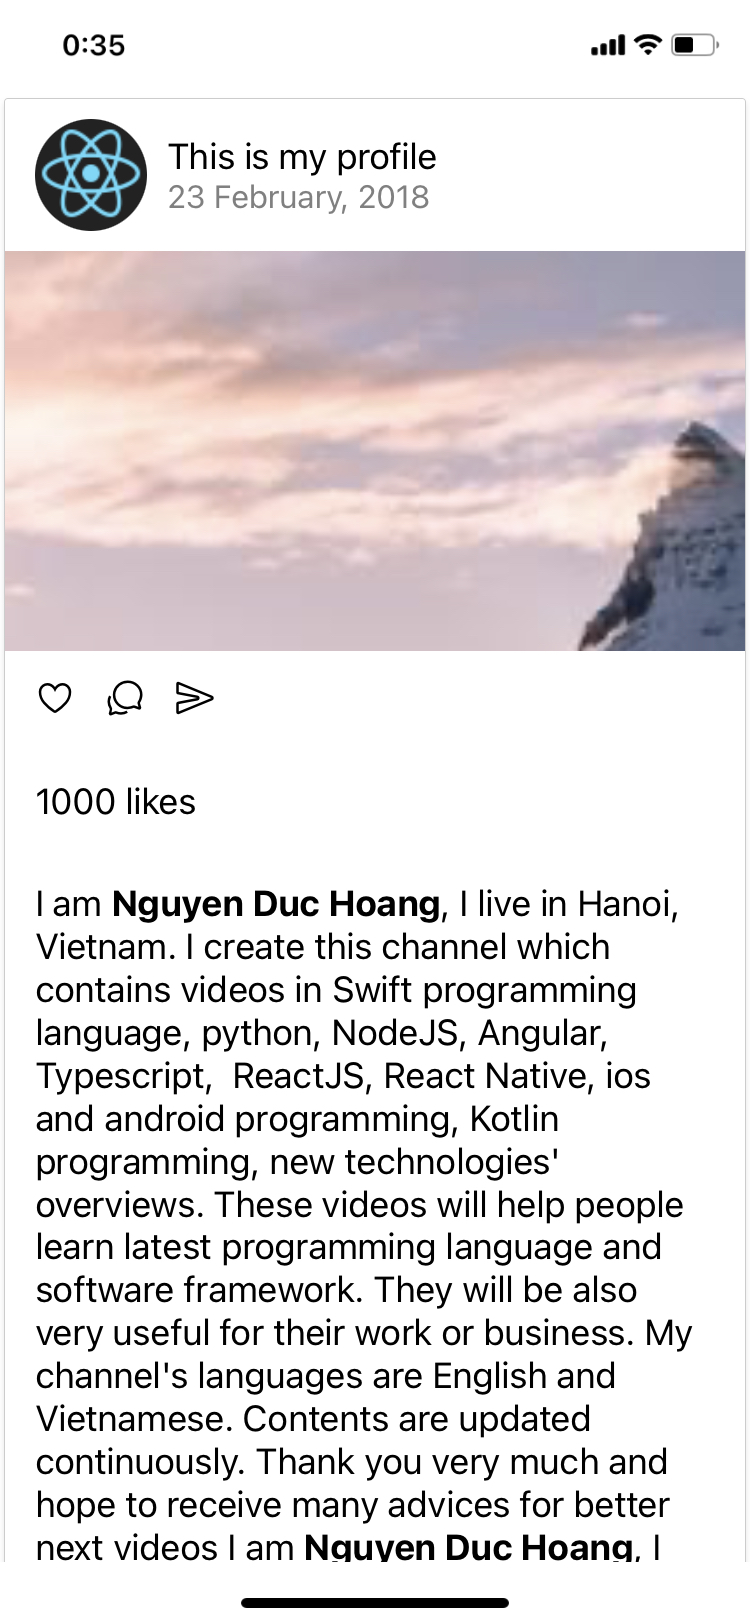
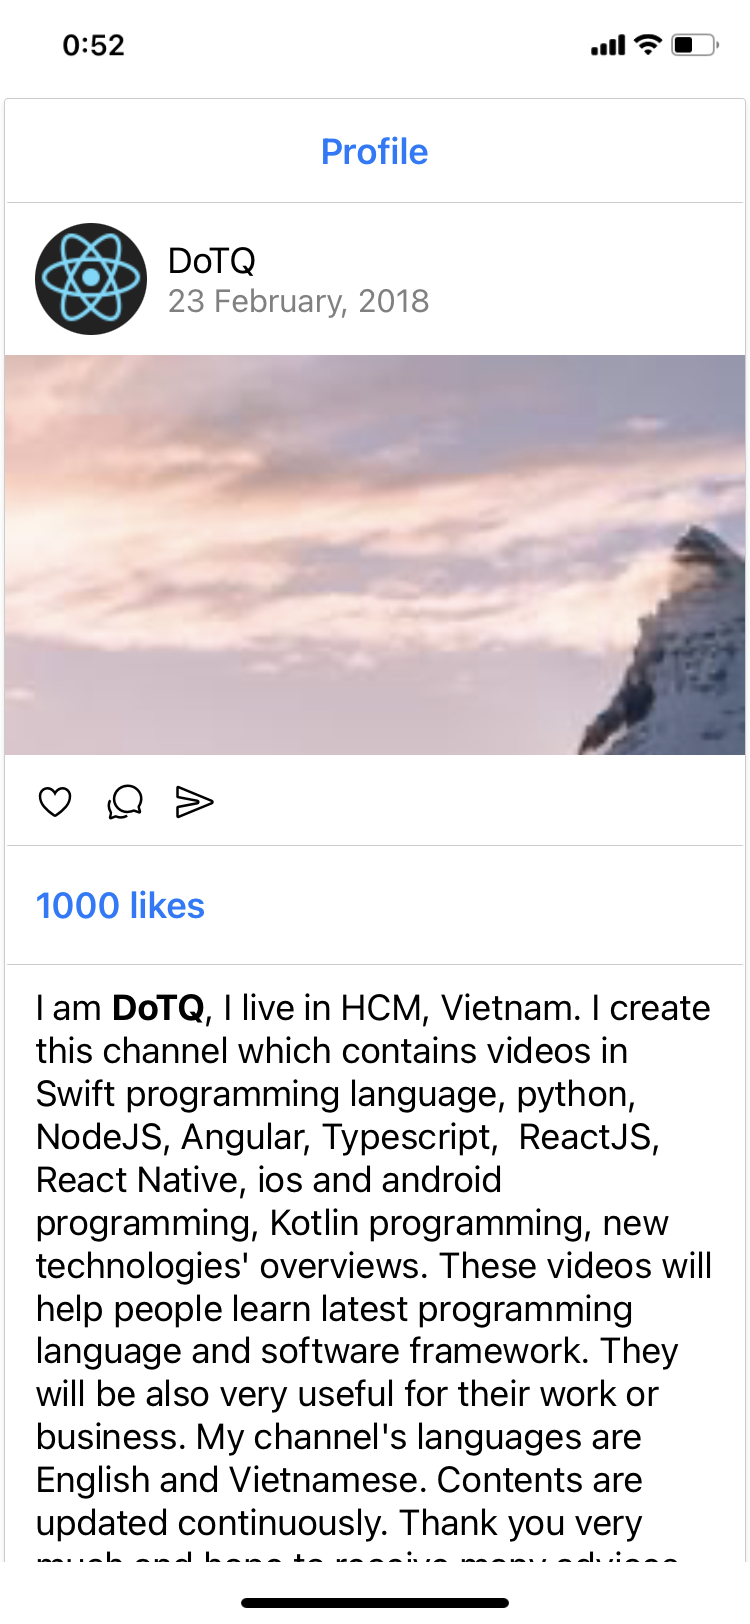
edit screenshot

diff --git a/NativeBaseDemo2.js b/NativeBaseDemo2.js
@@ -1,19 +1,22 @@
 import { Body, Button, Card, CardItem, Icon, Left, Text, Thumbnail } from 'native-base';
 import React, { Component } from 'react';
 import { Image, SafeAreaView, ScrollView, StatusBar } from 'react-native';
-export default class NativeBaseDemo2 extends Component {
+export default class CardComponent extends Component {
   render() {
     return <SafeAreaView>
       <StatusBar barStyle='dark-content' />
       <ScrollView>
         <Card>
+          <CardItem style={{ justifyContent: 'center', }} header bordered>
+            <Text>Profile</Text>
+          </CardItem>
           <CardItem>
             <Left>
               <Thumbnail source={{
                 uri: 'https://reactnative.dev/img/tiny_logo.png',
               }} />
               <Body>
-                <Text>This is my profile</Text>
+                <Text>DoTQ</Text>
                 <Text note>23 February, 2018</Text>
               </Body>
             </Left>
@@ -42,21 +45,21 @@ export default class NativeBaseDemo2 extends Component {
               </Button>
             </Left>
           </CardItem>
-          <CardItem style={{ height: 60 }}>
+          <CardItem style={{ height: 60 }} footer bordered>
             <Text>1000 likes</Text>
           </CardItem>
           <CardItem>
             <Body>
               <Text>
-                I am <Text style={{ fontWeight: 'bold' }}>Nguyen Duc Hoang</Text>, I live in Hanoi, Vietnam.
+                I am <Text style={{ fontWeight: 'bold' }}>DoTQ</Text>, I live in HCM, Vietnam.
                 I create this channel which contains videos in Swift programming language, python, NodeJS, Angular, Typescript,  ReactJS, React Native, ios and android programming, Kotlin programming, new technologies' overviews. These videos will help people learn latest programming language and software framework. They will be also very useful for their work or business.
                 My channel's languages are English and Vietnamese. Contents are updated continuously.
                 Thank you very much and hope to receive many advices for better next videos
-                I am <Text style={{ fontWeight: 'bold' }}>Nguyen Duc Hoang</Text>, I live in Hanoi, Vietnam.
+                I am <Text style={{ fontWeight: 'bold' }}>DoTQ</Text>, I live in HCM, Vietnam.
                 I create this channel which contains videos in Swift programming language, python, NodeJS, Angular, Typescript,  ReactJS, React Native, ios and android programming, Kotlin programming, new technologies' overviews. These videos will help people learn latest programming language and software framework. They will be also very useful for their work or business.
                 My channel's languages are English and Vietnamese. Contents are updated continuously.
                 Thank you very much and hope to receive many advices for better next videos
-                I am <Text style={{ fontWeight: 'bold' }}>Nguyen Duc Hoang</Text>, I live in Hanoi, Vietnam.
+                I am <Text style={{ fontWeight: 'bold' }}>DoTQ</Text>, I live in HCM, Vietnam.
                 I create this channel which contains videos in Swift programming language, python, NodeJS, Angular, Typescript,  ReactJS, React Native, ios and android programming, Kotlin programming, new technologies' overviews. These videos will help people learn latest programming language and software framework. They will be also very useful for their work or business.
                 My channel's languages are English and Vietnamese. Contents are updated continuously.
                 Thank you very much and hope to receive many advices for better next videos

diff --git a/App.js b/App.js
@@ -7,13 +7,16 @@ export default class CardComponent extends Component {
       <StatusBar barStyle='dark-content' />
       <ScrollView>
         <Card>
+          <CardItem style={{ justifyContent: 'center', }} header bordered>
+            <Text>Profile</Text>
+          </CardItem>
           <CardItem>
             <Left>
               <Thumbnail source={{
                 uri: 'https://reactnative.dev/img/tiny_logo.png',
               }} />
               <Body>
-                <Text>This is my profile</Text>
+                <Text>DoTQ</Text>
                 <Text note>23 February, 2018</Text>
               </Body>
             </Left>
@@ -42,21 +45,21 @@ export default class CardComponent extends Component {
               </Button>
             </Left>
           </CardItem>
-          <CardItem style={{ height: 60 }}>
+          <CardItem style={{ height: 60 }} footer bordered>
             <Text>1000 likes</Text>
           </CardItem>
           <CardItem>
             <Body>
               <Text>
-                I am <Text style={{ fontWeight: 'bold' }}>Nguyen Duc Hoang</Text>, I live in Hanoi, Vietnam.
+                I am <Text style={{ fontWeight: 'bold' }}>DoTQ</Text>, I live in HCM, Vietnam.
                 I create this channel which contains videos in Swift programming language, python, NodeJS, Angular, Typescript,  ReactJS, React Native, ios and android programming, Kotlin programming, new technologies' overviews. These videos will help people learn latest programming language and software framework. They will be also very useful for their work or business.
                 My channel's languages are English and Vietnamese. Contents are updated continuously.
                 Thank you very much and hope to receive many advices for better next videos
-                I am <Text style={{ fontWeight: 'bold' }}>Nguyen Duc Hoang</Text>, I live in Hanoi, Vietnam.
+                I am <Text style={{ fontWeight: 'bold' }}>DoTQ</Text>, I live in HCM, Vietnam.
                 I create this channel which contains videos in Swift programming language, python, NodeJS, Angular, Typescript,  ReactJS, React Native, ios and android programming, Kotlin programming, new technologies' overviews. These videos will help people learn latest programming language and software framework. They will be also very useful for their work or business.
                 My channel's languages are English and Vietnamese. Contents are updated continuously.
                 Thank you very much and hope to receive many advices for better next videos
-                I am <Text style={{ fontWeight: 'bold' }}>Nguyen Duc Hoang</Text>, I live in Hanoi, Vietnam.
+                I am <Text style={{ fontWeight: 'bold' }}>DoTQ</Text>, I live in HCM, Vietnam.
                 I create this channel which contains videos in Swift programming language, python, NodeJS, Angular, Typescript,  ReactJS, React Native, ios and android programming, Kotlin programming, new technologies' overviews. These videos will help people learn latest programming language and software framework. They will be also very useful for their work or business.
                 My channel's languages are English and Vietnamese. Contents are updated continuously.
                 Thank you very much and hope to receive many advices for better next videos
